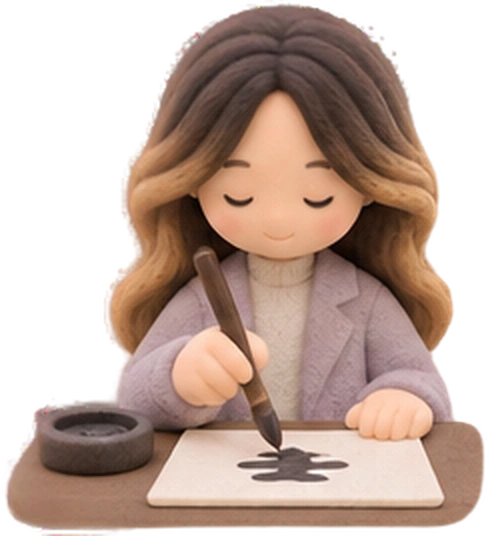
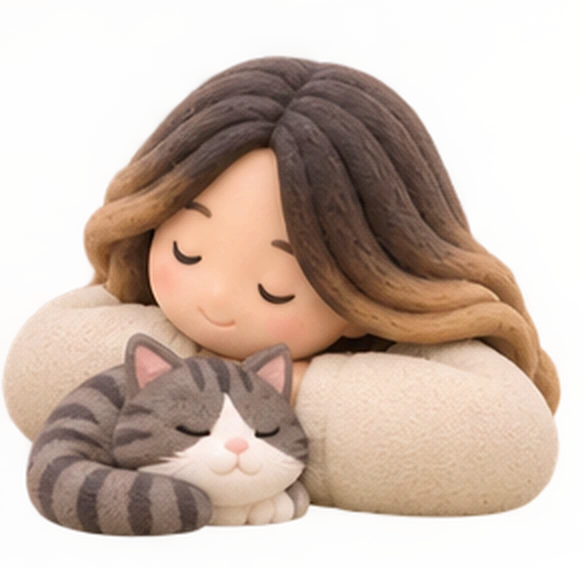
Home v2: keep seven outside the screen, and let the field breathe
Markets, the magazine and board games come out. What is left beside the work
is the cat, tennis, calligraphy, circuits, laser cutting, bouldering and the
skill archive. Sixteen figures instead of nineteen.

That space goes straight into size: at 1920 the centre grows from 275 to
317, and every rank with it, while the steps between ranks hold at about
2.14, 2.38 and 2.35 times the area.

The outer band now takes the lattice points furthest from the middle rather
than the nearest free ones. With fewer figures than points, the spare points
were being stranded at the edges and the field read as a cluster with empty
corners; the band fills them instead, which also says plainly that these
sit around the work rather than among it.

Resting with the cat replaces the headphones pose.

Clean at every size, filling 87 by 83 per cent of the field throughout.

diff --git a/assets/home-v2.js b/assets/home-v2.js
@@ -78,18 +78,6 @@ const NODES = [
     text:'Traditional Chinese calligraphy has stayed with me for more than a decade. Along the way I taught myself English calligraphy in Engrosser’s Script.',
     tags:['Chinese','Engrosser’s Script'], href:'/about/', media:'/assets/img/home/header-calligraphy.webp' },
 
-  { id:'market', ring:3, a:56, rj:0.96, s:4.36, img:'me-event', label:'Markets',
-    todo:'Olivia behind a small market table with pieces laid out on it.',
-    kicker:'Making becomes gathering', title:'Art is how I share culture.',
-    text:'I make and sell small pieces at markets and share the traditions behind them. With friends I co-founded Ikigai to work with cafes and run hands-on craft events.',
-    tags:['Ikigai','Craft events'], href:'/about/' },
-
-  { id:'magazine', ring:3, a:92, rj:1.03, s:4.5, img:'me-casual', label:'Magazine',
-    todo:'Olivia holding an open magazine, posters stacked beside her.',
-    kicker:'WEGET Magazine', title:'Vice president, design.',
-    text:'Leading design coordination, weekly reviews and creative production across posters, editorial assets and event merchandise.',
-    tags:['Editorial','Posters','Merch'], href:'/about/' },
-
   { id:'physical', ring:3, a:128, rj:0.98, s:4.4, img:'me-commute', label:'Physical computing',
     todo:'Olivia at a bench with a breadboard and a few wires.',
     kicker:'Explorations', title:'Sensor and touch logic.',
@@ -111,12 +99,6 @@ const NODES = [
     kicker:'Curious by default', title:'Tennis and badminton.',
     text:'Two more that are better with people than alone.',
     tags:['Tennis','Badminton'], href:'/about/' },
-
-  { id:'boardgames', ring:3, a:272, rj:0.99, s:4.5, img:'me-event', label:'Board games',
-    todo:'Olivia at a table with a board and pieces, two friends across from her.',
-    kicker:'Curious by default', title:'Board game nights.',
-    text:'The hobby that turned into a capstone. Common Ground started here.',
-    tags:['Board games'], href:'/about/' },
 
   { id:'cats', ring:3, a:308, rj:1.03, s:4.4, img:'me-cats', label:'Two cats',
     kicker:'Companion', title:'Usually made with two cats nearby.',
@@ -160,12 +142,14 @@ function lattice(W, H, n) {
   return { pts: pts, cw: cw, ch: ch };
 }
 
-/* Take k points from the pool, nearest the middle first, but placed around it
-   rather than bunched to one side. */
-function pick(pool, k, cx, cy) {
+/* Take k points from the pool, placed around the middle rather than bunched to
+   one side. The near ranks take the middle; the outer band takes the far
+   points, which fills the edges of the field instead of leaving the spare
+   lattice points stranded in the corners. */
+function pick(pool, k, cx, cy, far) {
   const ang = p => Math.atan2(p.y - cy, p.x - cx);
-  const near = pool.slice().sort((a, b) =>
-    Math.hypot(a.x - cx, a.y - cy) - Math.hypot(b.x - cx, b.y - cy))
+  const d = p => Math.hypot(p.x - cx, p.y - cy);
+  const near = pool.slice().sort((a, b) => far ? d(b) - d(a) : d(a) - d(b))
     .slice(0, Math.min(pool.length, Math.max(k, k * 3)));
   const taken = [];
   while (taken.length < k && near.length) {
@@ -235,7 +219,7 @@ function apply(base, W, H) {
   // each other, so the four featured scenes hold the four quarters.
   [0, 1, 2, 3].forEach(r => {
     const group = NODES.filter(n => n.ring === r);
-    pick(pool, group.length, cx, cy).forEach((pt, i) => { group[i].pt = pt; });
+    pick(pool, group.length, cx, cy, r === 3).forEach((pt, i) => { group[i].pt = pt; });
   });
 
   NODES.forEach((n, i) => {

diff --git a/home-v2.html b/home-v2.html
@@ -9,7 +9,7 @@
 <link rel="preconnect" href="https://fonts.gstatic.com" crossorigin />
 <link href="https://fonts.googleapis.com/css2?family=Cormorant+Garamond:wght@400;500;600;700&family=Instrument+Sans:wght@400;500;600;700&display=swap" rel="stylesheet" />
 <link rel="icon" type="image/png" href="/assets/img/personal-logo.png" />
-<link rel="stylesheet" href="/assets/home-v2.css?v=2026110743" />
+<link rel="stylesheet" href="/assets/home-v2.css?v=2026110745" />
 </head>
 <body class="hv2">
 
@@ -45,6 +45,6 @@
   <p>Designed with lots of &#129504;&#128049;&#10084;&#65039;</p>
 </footer>
 
-<script src="/assets/home-v2.js?v=2026110743" defer></script>
+<script src="/assets/home-v2.js?v=2026110745" defer></script>
 </body>
 </html>

diff --git a/assets/img/home-v2/POSES.md b/assets/img/home-v2/POSES.md
@@ -1,7 +1,8 @@
 # Home v2 clay poses
 
-The constellation on `/home-v2.html` has 19 slots. Five are filled with real
-crops from your character sheet. Seven are stand-ins and need a pose made. All four featured scenes are done, along with the centre, school, tennis, bouldering and the cats.
+Sixteen figures: you in the middle, four things about you, four featured
+projects, and seven made outside the screen. Twelve are real poses. Four are
+stand-ins and still need making.
 
 Open the draft and press **Show the poses still to make**: every stand-in gets
 a dashed amber box, and its hover card prints the pose it is waiting for.
@@ -11,70 +12,39 @@ a dashed amber box, and its hover card prints the pose it is waiting for.
 These matter more than any single pose. The figures sit next to each other on
 one field, so anything that drifts shows up immediately.
 
-1. **One camera.** Eye level, straight on, no tilt. The same lens as the
-   turnaround row on your sheet.
-2. **One height.** Build each pose so the figure reads at the same real-world
-   size, roughly 7.5 cm as marked on your sheet. The page scales them, so what
-   matters is that a standing figure and a sitting one look like the same doll.
-3. **Transparent background, no shadow baked in.** The page adds its own soft
-   shadow. A baked one will not match.
-4. **Square-ish framing.** The page puts every figure in a square cell and
-   contains it, so leave a little air on all four sides and keep the figure
-   centred horizontally.
-5. **Same materials.** Matte clay, the felted jacket texture, the same hair
-   gradient, the same skin and blush.
-6. **Props in the same clay.** A phone, a brush, a racket, a card: all modelled
-   in the same material, not photographed objects.
-7. **Keep the stand** if the pose is standing, drop it if she is sitting or
-   lying, which is what your sheet already does.
+1. **One camera.** Eye level, straight on, no tilt.
+2. **One doll.** Same materials, same hair gradient, same skin and blush. A
+   sitting pose is shorter than a standing one, not merely wider.
+3. **Transparent background, no shadow baked in.** The page adds its own.
+4. **Air on all four sides**, figure centred horizontally.
+5. **Props in the same clay**, not photographed objects.
+6. **Export at roughly 800 tall or more.** Smaller holds up to about a 1440
+   screen and softens on a large display, where the centre runs to 394.
 
-## The seven
+A featured project is a scene: the figure plus the screens that say what the
+thing is. They are given more room than a lone figure so the phones stay
+readable.
 
-### Featured work
-
-| Slot | Pose |
-|---|---|
-
-### Made outside the screen
+## The four still to make
 
 | Slot | Pose |
 |---|---|
 | Calligraphy | Kneeling at a low desk with a brush, a sheet of paper under it. |
-| Markets | Behind a small market table with pieces laid out on it. |
-| Magazine | Holding an open magazine, posters stacked beside her. |
 | Physical computing | At a bench with a breadboard and a few wires. |
 | Fabrication | Holding a flat-pack part, a laser-cut sheet beside her. |
-| Board games | At a table with a board and pieces, two friends across from her. |
 | Skill archive | Holding a small stack of finished objects. |
 
-### Centre
+## Already made
 
-| Slot | Pose |
-|---|---|
-| Olivia | Done, as a close-up portrait. Swap back to a full figure by pointing the centre node at `me-hi` if the framing feels off next to the others. |
+**Centre** the close-up portrait. **About** work, skills, school, and sitting
+with the cat and a mug. **Featured** Paira, EcoScan, Merlin with the raven,
+and Common Ground at the table. **Outside the screen** tennis, bouldering,
+and resting with the cat.
 
-## Already filled, from your sheet
-
-`me-paira` and `me-ecoscan`, the two scenes with their phones. `me-hi` the
-front view, `me-skills` lying with the laptop, `me-base` sitting with the cat
-and a mug, `me-school` the graduation outfit, `cat` the companion. Four outfit
-variations are doing stand-in duty until the list above is made.
-
-The two scenes set a second convention worth keeping: a featured project is a
-scene, the figure plus the screens that show what the thing is. They are given
-more height than a lone figure so the phones stay readable, and they sit at the
-four corners of the featured ring. If Merlin and Common Ground follow the same
-pattern, send them at a similar width so they balance.
+Four outfit variations stand in for the four above until they are made.
 
 ## Dropping a new pose in
 
 Save it as `assets/img/home-v2/<slot>.webp` with transparency, then change that
 node's `img` in `assets/home-v2.js` and delete its `todo` line. Nothing else
 needs touching.
-
-## Resolution
-
-The newest poses came in around 240 by 300, which the page doubles before
-display. That is enough up to about a 1440 screen and starts to soften on a
-large display, where the centre runs to 275 tall. Anything you export at
-roughly 800 tall or more will stay sharp everywhere.
